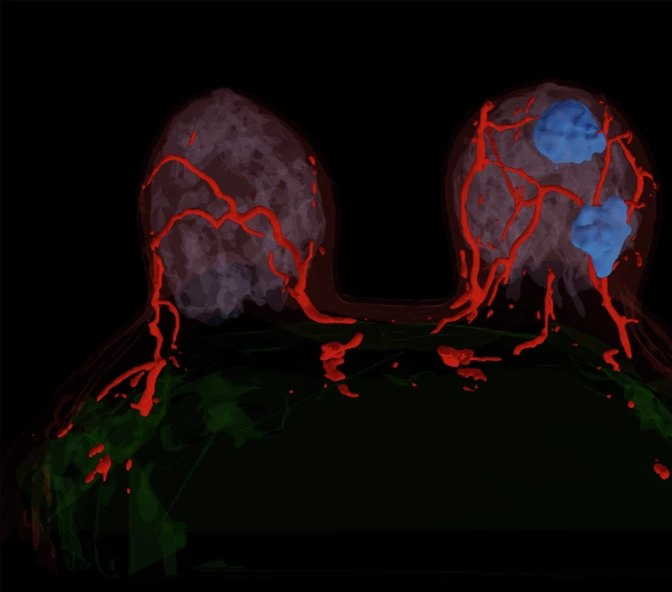
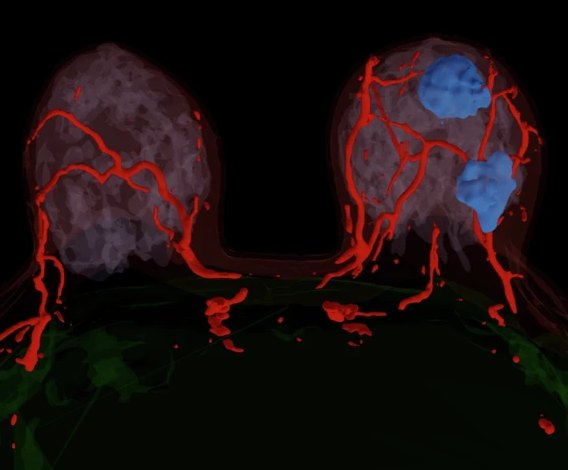
Center the hero render
Claude-Session: https://claude.ai/code/session_01TpErNV4CGuK35BiqofjKkL

diff --git a/index.html b/index.html
@@ -52,7 +52,7 @@ h1,h2,h3{font-family:var(--display);text-wrap:balance;margin:0}
 .hero nav a:hover{background:rgba(142,182,155,.16)}
 .twin{margin:0;display:flex;flex-direction:column;gap:8px}
 .frame{max-width:100%;overflow:hidden;position:relative}
-.twin .frame{aspect-ratio:672/592;border-radius:14px;background:#000000;border:1px solid rgba(142,182,155,.4)}
+.twin .frame{aspect-ratio:568/470;border-radius:14px;background:#000000;border:1px solid rgba(142,182,155,.4)}
 .twin img{width:100%;height:100%;object-fit:cover;display:block}
 .twin figcaption{font-size:.8rem;line-height:1.45;color:var(--hero-muted)}
 .twin figcaption a{color:var(--hero-muted)}
